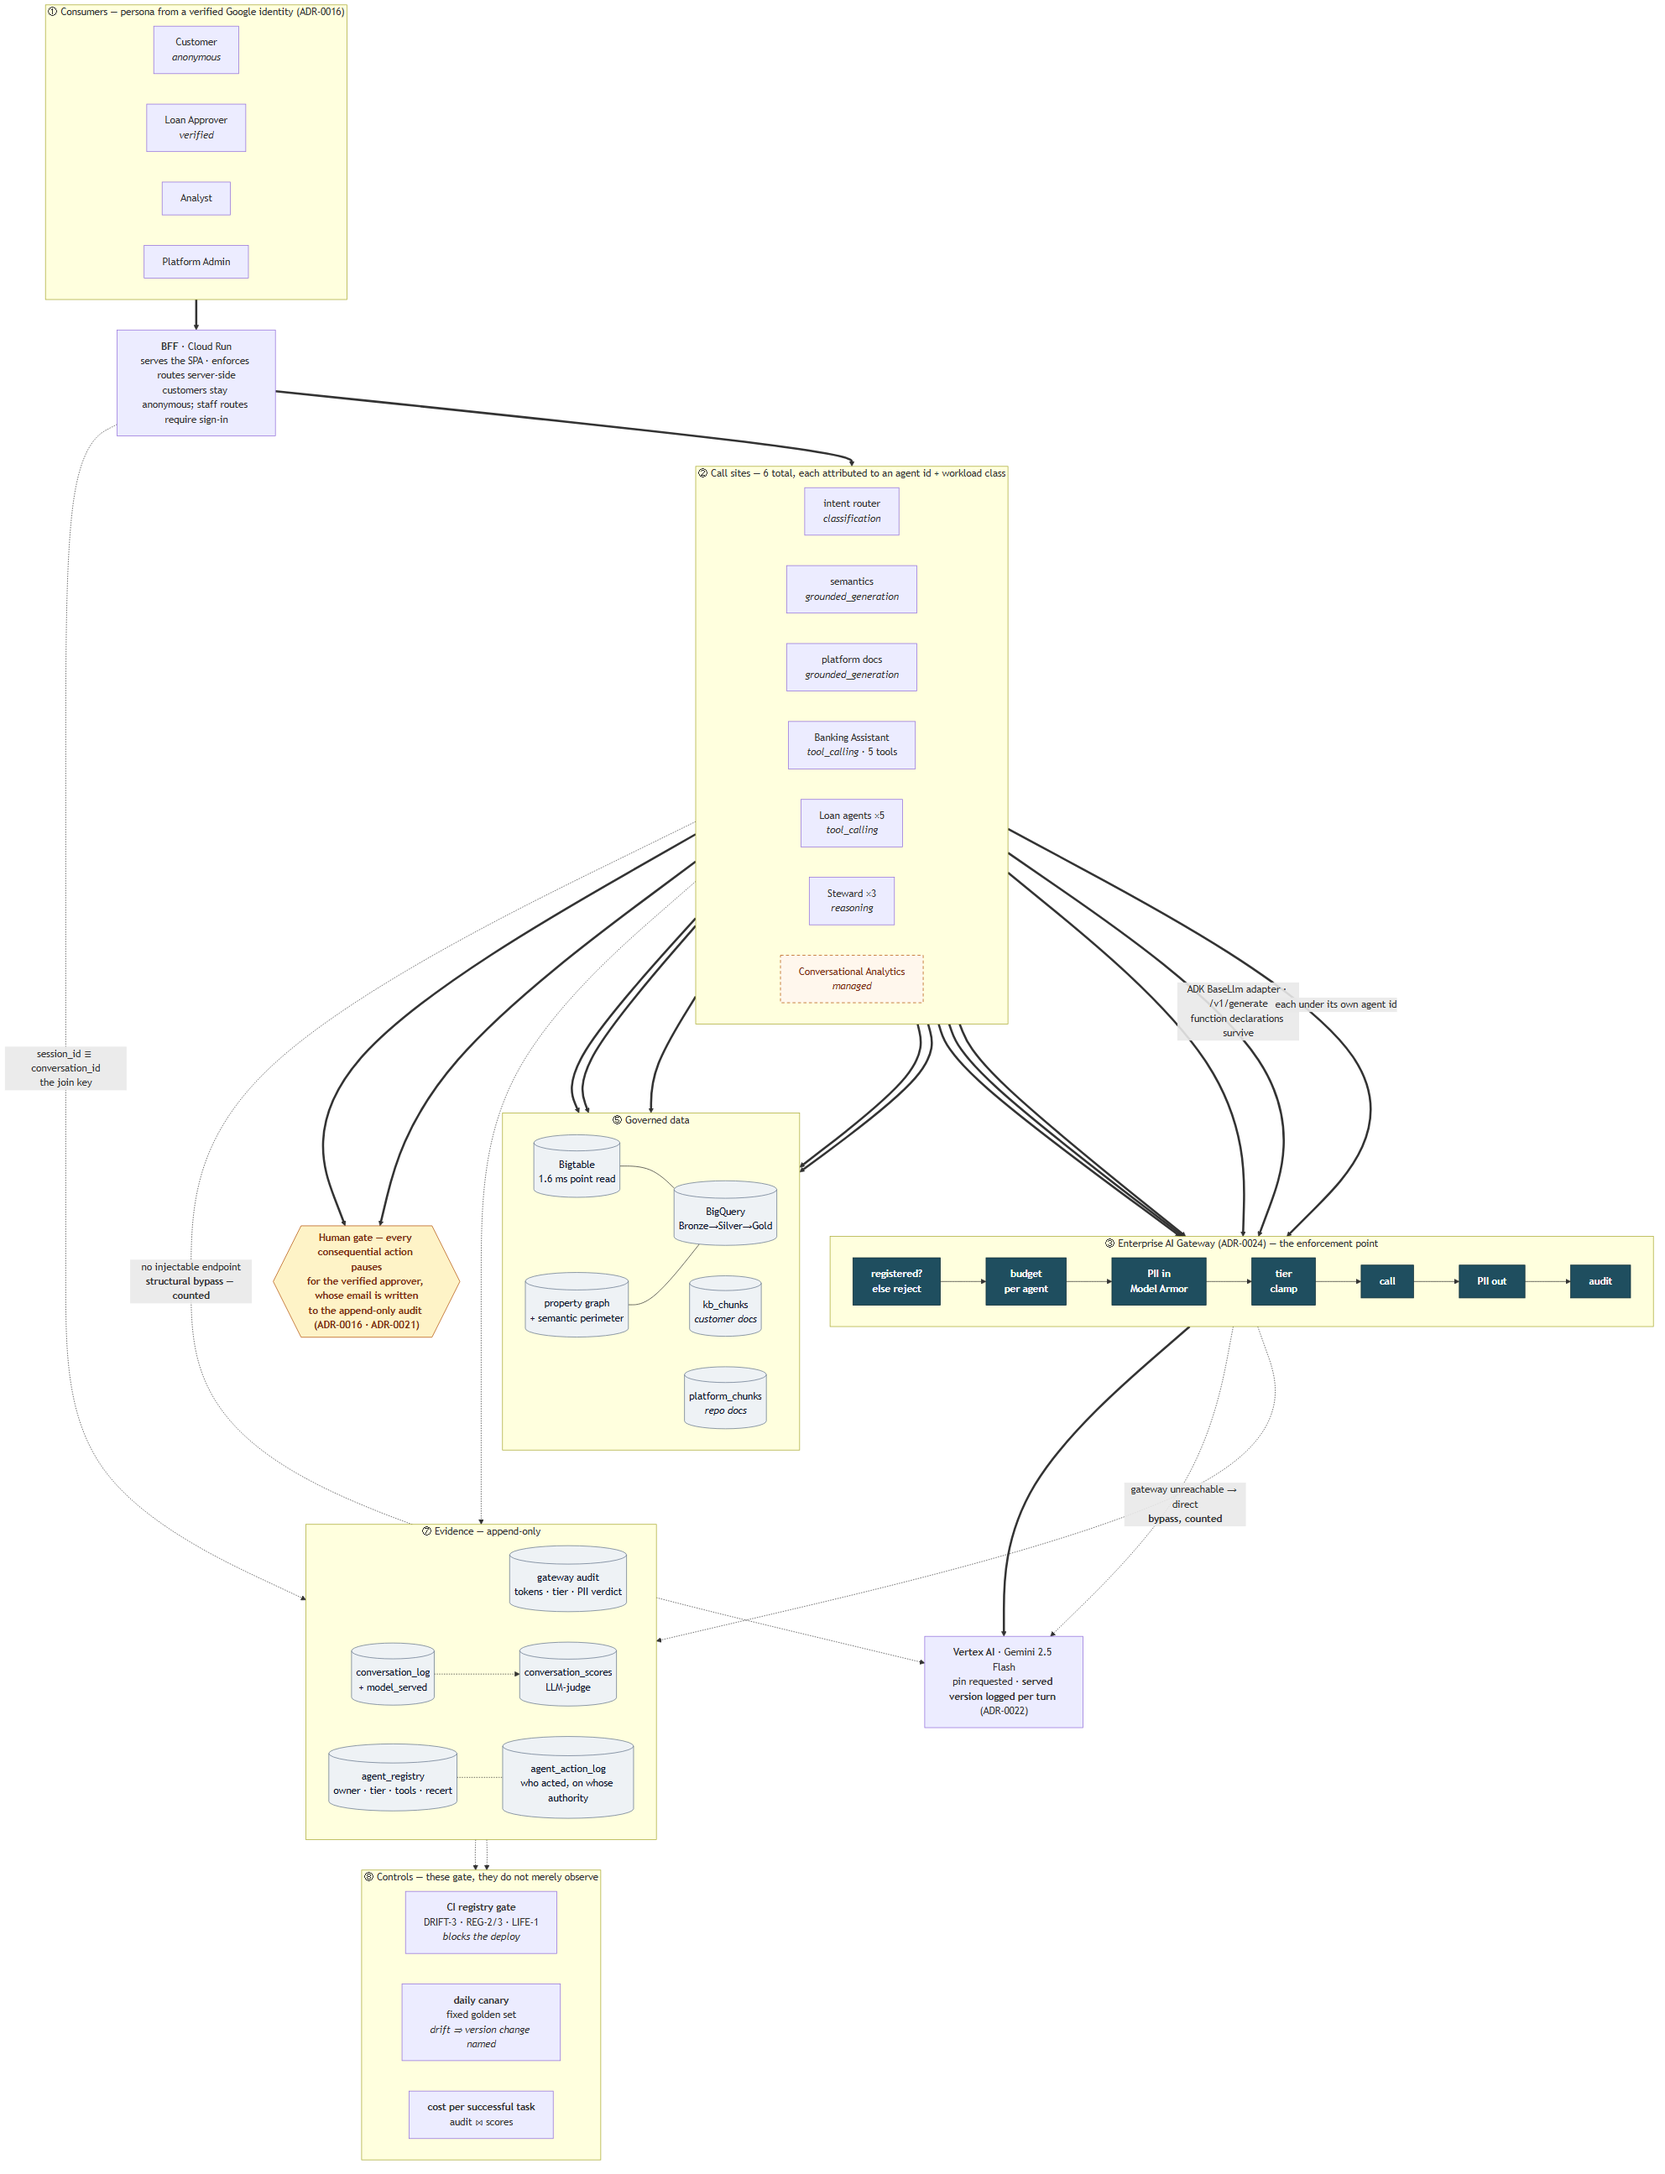
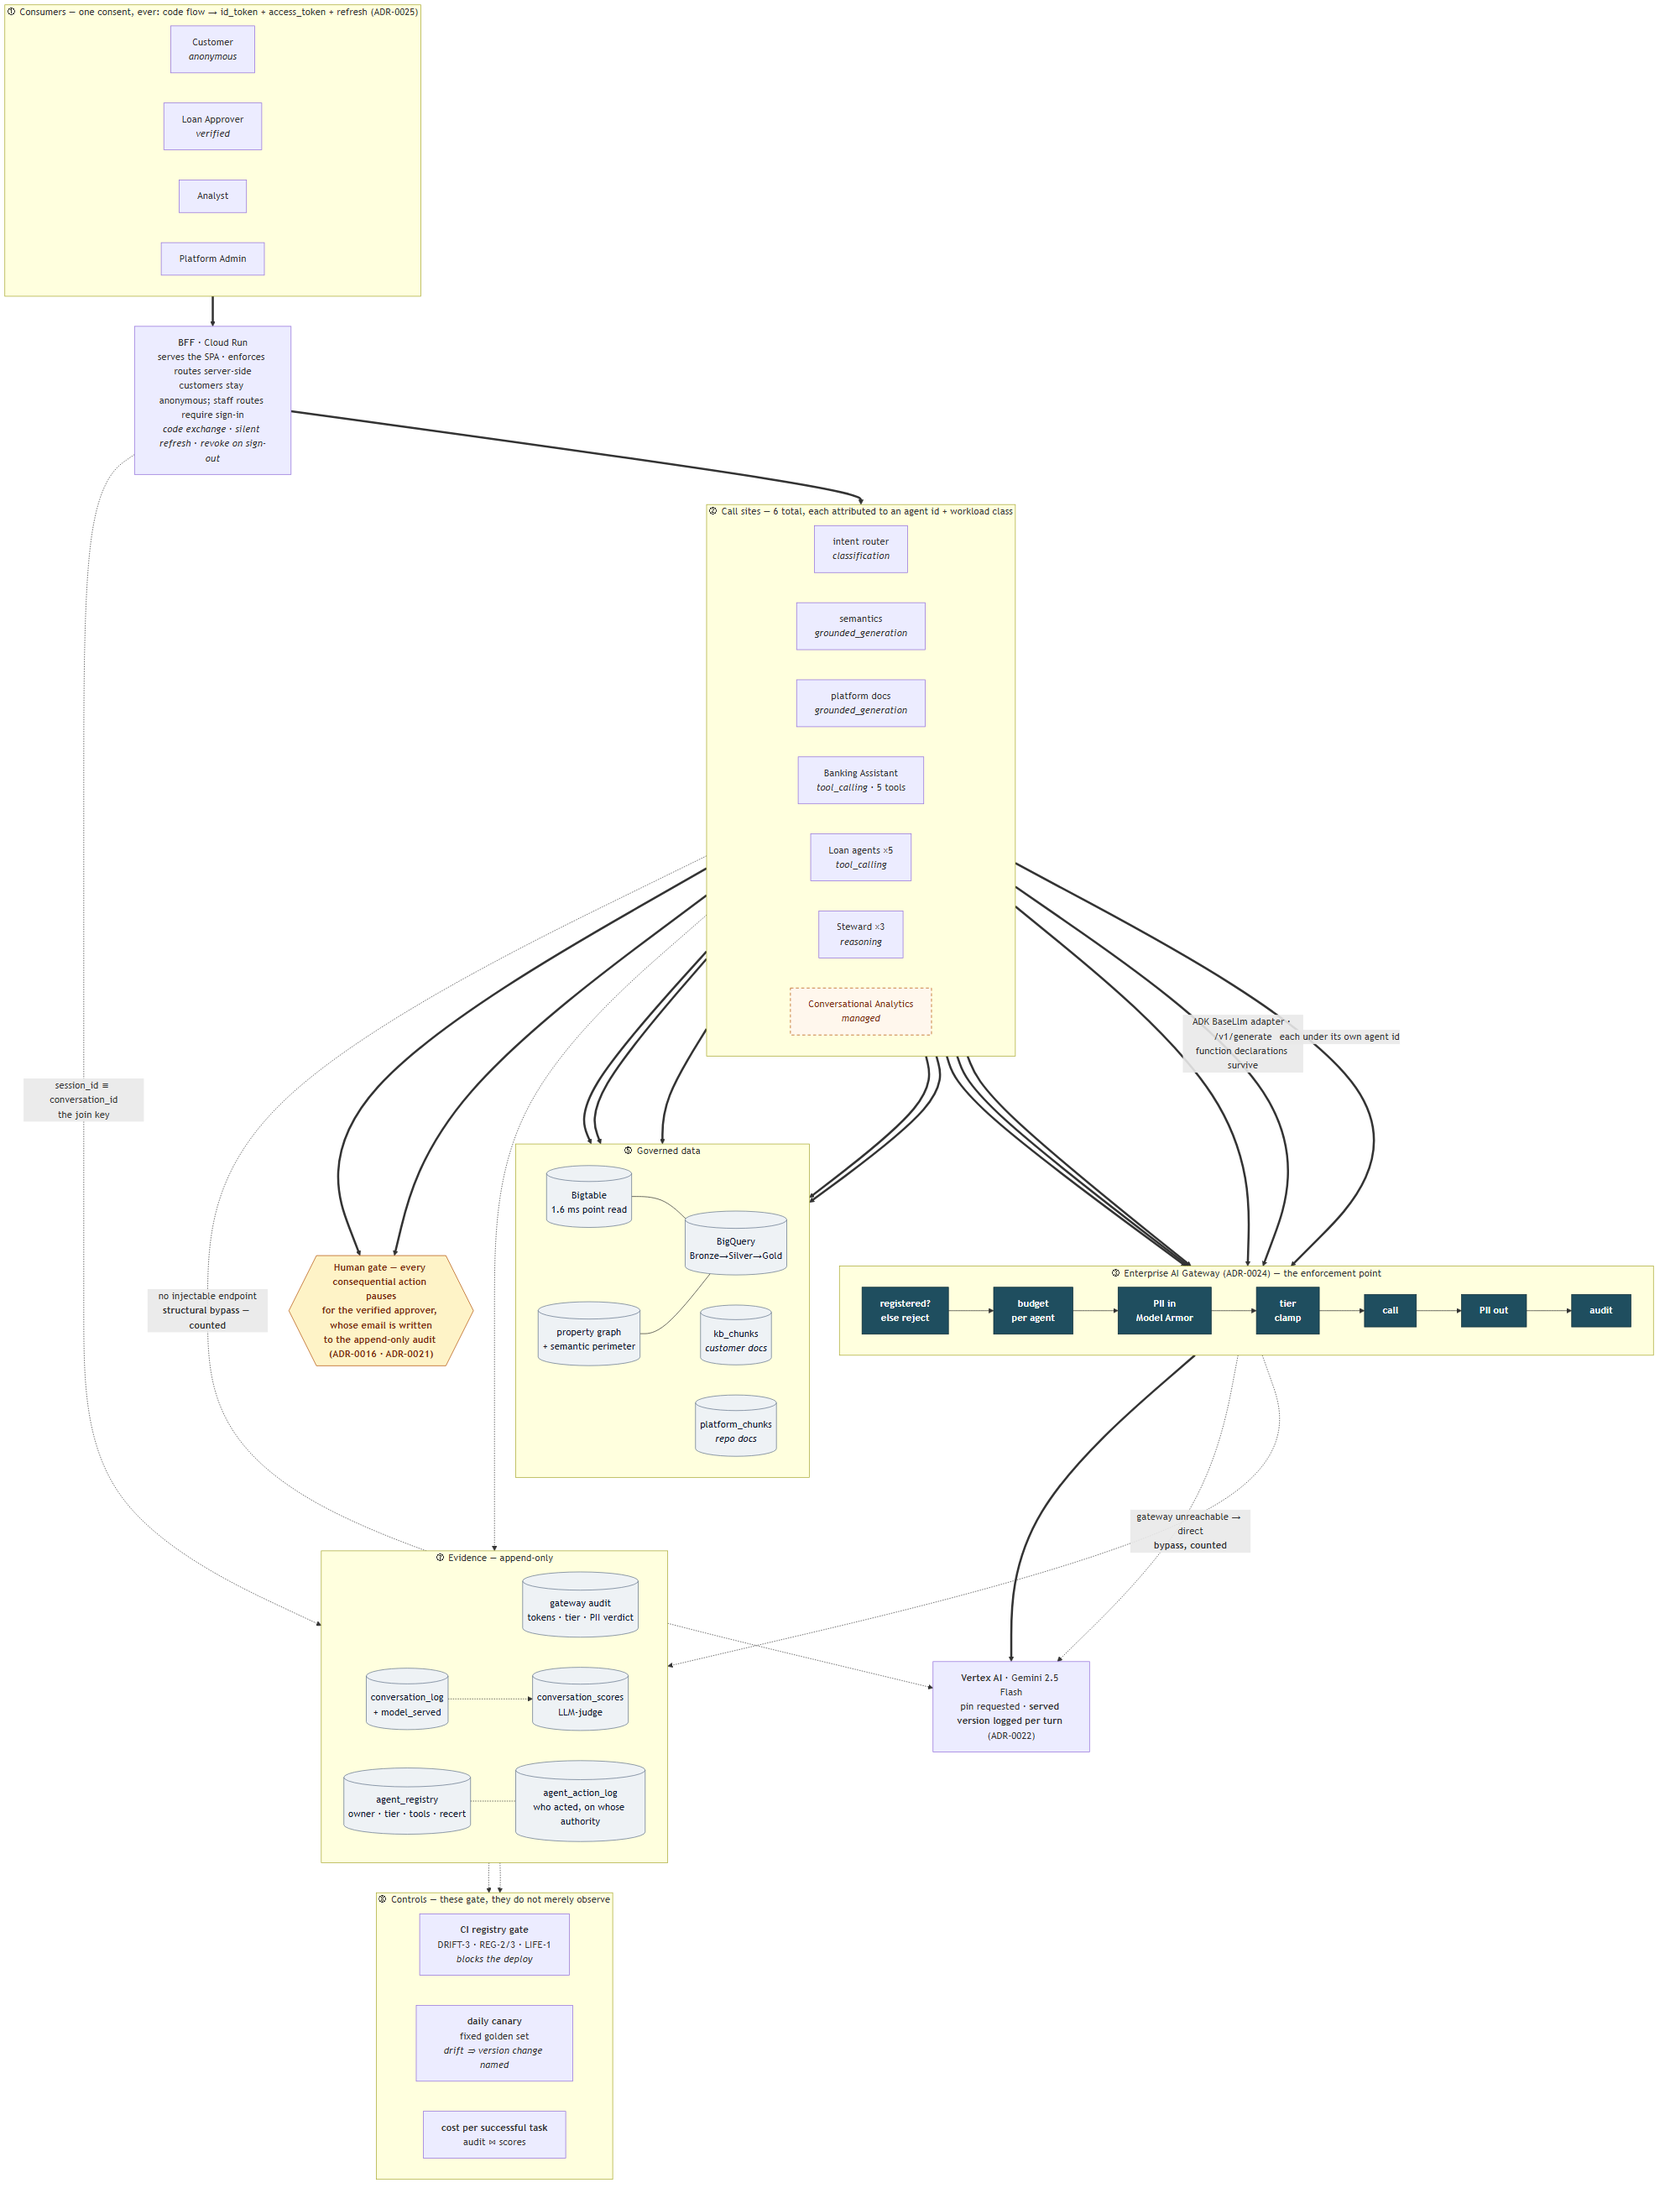
Document one-time sign-in: ADR-0025, amend 0016/0019, refresh the diagram
ADR-0025 records the decision and, more usefully, what it costs: a client secret
now exists, and FinChat now persists a long-lived human credential. Both are real
increases in blast radius and are stated as accepted negatives rather than left
for someone to discover.

0016 and 0019 get dated update notes rather than rewrites - their decisions did
not change. 0016 in particular: the id_token still goes through the same
verify_oauth2_token path, so what is verified is identical and only the consent
count moved. Saying that explicitly matters, because "we changed the login flow"
in a bank reference implementation reads as "we changed the identity assurance"
unless you say otherwise.

Also records the rejected alternative worth knowing: resolving identity from
userinfo would have given one consent with no client secret, at the price of
replacing offline cryptographic verification with a network call per check.

diff --git a/docs/adr/0025-one-time-signin.md b/docs/adr/0025-one-time-signin.md
@@ -1,0 +1,133 @@
+# ADR-0025 — One-time sign-in via the authorization-code flow
+
+- **Status:** Accepted
+- **Date:** 2026-08-05
+- **Deciders:** Principal Data Architect
+- **Context tags:** Identity, OAuth, UX, least privilege, credential handling
+
+## Context
+
+Staff signing in met **two consent screens**, the second landing mid-conversation.
+
+The cause is structural, not a bug. Google Identity Services offers two grants and neither
+produces the other in the browser:
+
+| Grant | Gives | Needed for |
+|---|---|---|
+| `google.accounts.id` | **ID token** | Persona resolution ([ADR-0016](0016-identity-resolved-personas.md)) |
+| `google.accounts.oauth2.initTokenClient` | **Access token** | BigQuery evaluating the user's own IAM and policy tags ([ADR-0019](0019-end-user-credential-propagation.md)) |
+
+The SPA already tried to hide this by requesting the access token immediately after
+sign-in. That call runs inside the GIS credential callback, which is **not a user-gesture
+context**, so the browser blocked the popup. The lazy path then fired on the first chat
+message — which *is* a gesture — and the user experienced it as being asked to log in
+again. The code comment predicted exactly this outcome.
+
+A second consent that appears once per account is a small thing. It is also the first
+impression of a platform whose entire pitch is governed, identity-resolved access, and it
+lands in the middle of a demo.
+
+## Decision
+
+Use the **authorization-code flow**, which returns identity, data access, and a refresh
+token from a single consent.
+
+```
+[Sign in with Google]           our button — the click IS the gesture
+   └─ initCodeClient(popup)     one screen: account + scopes
+        └─ code → BFF /api/auth/exchange
+             └─ id_token       → verified, persona resolved (unchanged)
+                access_token   → returned to the tab, memory only
+                refresh_token  → stored server-side
+```
+
+### Identity verification does not change
+
+The `id_token` from the exchange goes through the **same** `verify_oauth2_token` call as
+the GIS path — signature, audience, issuer, expiry, `email_verified`. This is why the
+change needed no revision to ADR-0016's substance: what is verified and how is identical.
+Only the number of consent screens moved.
+
+The alternative — resolving identity from Google's `userinfo` endpoint using the access
+token — was rejected precisely because it *would* have changed that. It replaces offline
+cryptographic verification with a network call to a third party per identity check, which
+is a real weakening for a banking reference implementation and not worth one popup.
+
+### Scope narrowed to what is used
+
+`cloud-platform` → `bigquery.readonly`. The old scope is the broadest Google publishes;
+requesting it to run `SELECT`s produced an alarming consent screen and an obvious audit
+finding. `openid email profile` are requested alongside it in the same grant.
+
+### The refresh token is the point
+
+Without it this is "one consent per session". With it, it is one consent **ever**:
+`/api/auth/refresh` mints access tokens server-side with no user interaction.
+
+Storage decisions, each deliberate:
+
+- **Firestore, native mode** — already present in this project, scale-to-zero, encrypted
+  at rest.
+- **Keyed by SHA-256 of the email.** A collection of plaintext-email document ids is a
+  roster of who uses the platform, readable by anyone who can list the collection without
+  reading a single document. The body stores no email either, or the hashing is theatre.
+- **Firestore unavailable ⇒ no persistence, not an in-memory fallback.** A refresh token
+  cached in process memory disappears on the next cold start and presents to the user as
+  *"it sometimes asks me to log in again"* — which is far harder to diagnose than a
+  feature that never worked.
+- **A missing `refresh_token` never clobbers a stored one.** Google issues one only on the
+  first grant for a given client+user; treating its absence on re-consent as "clear the
+  record" would silently un-persist the login.
+
+### Sign-out revokes at Google
+
+`/api/auth/signout` calls Google's revoke endpoint before dropping the local record.
+Deleting only our copy would leave the grant live while the UI claims the user is signed
+out — amnesia, not logout.
+
+### The whole path is optional
+
+With no client secret configured, `code_flow` is false and the SPA renders the original
+GIS button with the two-grant path. A sign-in mechanism that hard-fails on a missing
+secret is a worse trade than an extra consent screen.
+
+## Consequences
+
+**Positive**
+
+- One consent, once, per user — not per session.
+- Least privilege: `bigquery.readonly` instead of `cloud-platform`.
+- Sign-out means what it says.
+- Identity assurance unchanged; no weakening of the ADR-0016 story.
+
+**Negative / accepted**
+
+- **A client secret now exists and must be managed.** Held in Secret Manager
+  (`finchat-oauth-client-secret`), mounted to the BFF only. This is new attack surface
+  that the pure-GIS flow did not have, and it is the real cost of this decision.
+- **FinChat now stores a long-lived credential for a human.** A refresh token is more
+  sensitive than anything previously persisted here. Mitigated by hashed keys, encryption
+  at rest, revoke-on-signout, and least-privilege scope — but the honest framing is that
+  the blast radius of a Firestore compromise grew.
+- **New runtime dependency on Firestore** for the BFF, plus `roles/datastore.user`.
+- **Two sign-in paths to maintain** until the GIS fallback is removed.
+- **Revocation outside the app is invisible to us** until a refresh fails. Handled by
+  falling back to interactive consent, but there is no proactive signal.
+
+## Alternatives considered
+
+- **Single OAuth popup, identity from `userinfo`.** One consent and no client secret, but
+  identity verification becomes a per-check network call instead of offline JWT
+  verification. Rejected: ADR-0016 is a governance artifact and that is a real weakening.
+- **Move the second grant into the sign-in click without changing flows.** Smallest change,
+  keeps both grants — two consent screens back to back rather than one. Rejected as not
+  meeting the requirement.
+- **Service-account impersonation instead of user credentials.** Removes the consent
+  entirely and destroys the point of ADR-0019: BigQuery would evaluate a platform identity,
+  not the analyst's, so masking and CLS denial would no longer demonstrate anything.
+
+## References
+
+- [ADR-0016 — Identity-resolved personas](0016-identity-resolved-personas.md)
+- [ADR-0019 — End-user credential propagation](0019-end-user-credential-propagation.md)
+- [25 — End-to-end flow](../25-end-to-end-flow.md)

diff --git a/docs/adr/README.md b/docs/adr/README.md
@@ -28,6 +28,7 @@ Lightweight ADRs capturing significant, hard-to-reverse decisions and their rati
 | [0022](0022-model-version-pinning.md) | Model version pinning + scheduled canary evaluation (FINOS AIR-PREV-010) | Accepted |
 | [0023](0023-agent-registry-and-identity.md) | Agent registry, per-agent identity, and lifecycle | Accepted |
 | [0024](0024-enterprise-ai-gateway.md) | Enterprise AI Gateway as the single enforcement point | Accepted |
+| [0025](0025-one-time-signin.md) | One-time sign-in via the authorization-code flow | Accepted |
 
 _Future ADRs (planned): row/column-level security model, idempotency & exactly-once strategy,
 environment promotion gating._

diff --git a/docs/adr/0019-end-user-credential-propagation.md b/docs/adr/0019-end-user-credential-propagation.md
@@ -5,6 +5,12 @@
 - **Deciders:** Principal Cloud Architect
 - **Context tags:** Identity, least privilege, OBO, column-level security, data masking
 
+> **Update 2026-08-05 ([ADR-0025](0025-one-time-signin.md)).** The user access token now
+> comes from the same authorization-code exchange as the ID token, and the scope narrowed
+> from `cloud-platform` to `bigquery.readonly` — the broadest scope Google publishes was
+> being requested to run `SELECT`s. A stored refresh token means later sessions obtain it
+> silently, with no consent screen at all.
+
 ## Context
 
 After ADR-0016 (identity-resolved personas) the BFF *knows who you are*, but the

diff --git a/docs/adr/0016-identity-resolved-personas.md b/docs/adr/0016-identity-resolved-personas.md
@@ -5,6 +5,12 @@
 - **Deciders:** Principal Data Architect
 - **Context tags:** Security, identity, authorization, audit
 
+> **Update 2026-08-05 ([ADR-0025](0025-one-time-signin.md)).** The ID token is now obtained
+> from an authorization-code exchange rather than the GIS credential callback, so identity
+> and data access are granted in one consent. **What is verified is unchanged** — the same
+> `verify_oauth2_token` call, same signature/audience/issuer/expiry checks. Only the number
+> of consent screens moved.
+
 ## Context
 
 Personas were simulated: a dropdown set an `X-Persona` header the BFF trusted, and
